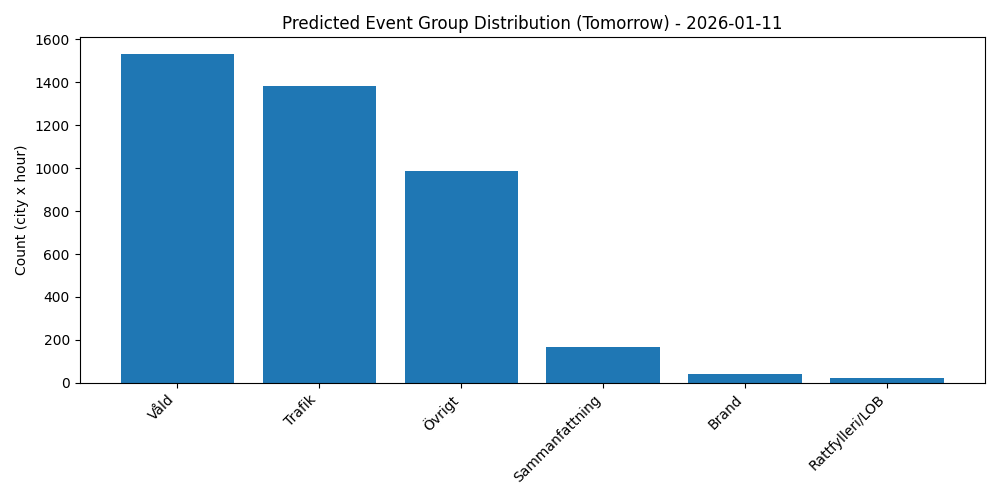
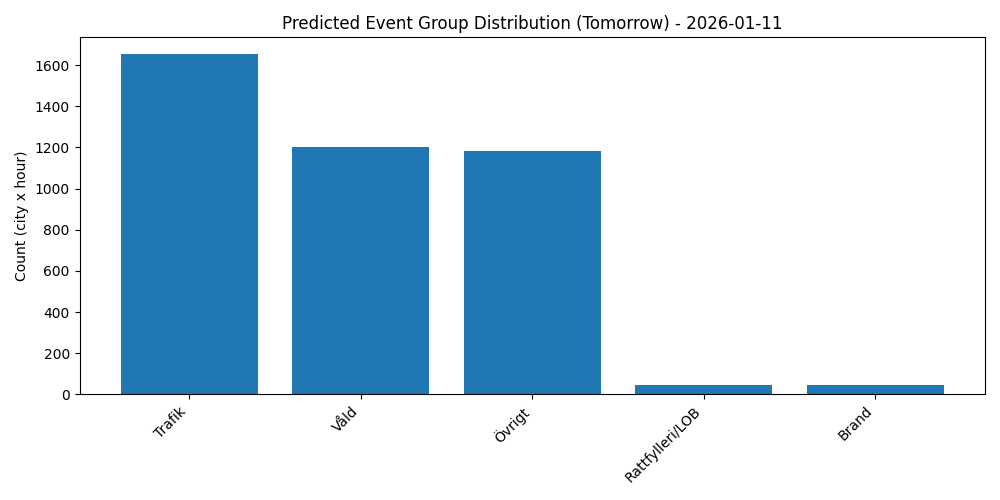
remove sammanfattning from label group

diff --git a/src/label_map.py b/src/label_map.py
@@ -32,10 +32,6 @@ def map_type_to_group(event_type: str) -> str:
     if not t:
         return "Övrigt"
 
-    # 1) Summaries (often very frequent)
-    if "sammanfattning" in t:
-        return "Sammanfattning"
-
     # 2) Traffic
     trafik_keywords = [
         "trafik", "körning", "rattfyll", "fordon", "hastighet",
@@ -58,7 +54,7 @@ def map_type_to_group(event_type: str) -> str:
     # 4) Violence
     vald_keywords = [
         "misshandel", "våld", "våldt", "mord", "dråp", "rån", "bråk",
-        "olaga hot", "hot", "hemfridsbrott", "vållande", "människorov"
+        "olaga hot", "hot", "hemfridsbrott", "vållande", "människorov",
     ]
     if any(k in t for k in vald_keywords):
         return "Våld"

diff --git a/src/1_daily_feature_pipeline.py b/src/1_daily_feature_pipeline.py
@@ -236,10 +236,9 @@ def to_hopsworks(df: pd.DataFrame):
 
     df = df[required_cols].copy()
 
-    # ✅ Create/Use Feature Group v2 (new schema, no conflict with v1)
     police_fg = fs.get_or_create_feature_group(
         name="police_events",
-        version=2,
+        version=3,
         primary_key=["id"],
         event_time="datetime",
         description="Police events with weather + grouped label (type_group)",

diff --git a/src/3_inference_pipeline.py b/src/3_inference_pipeline.py
@@ -32,7 +32,7 @@ if not API_KEY:
 CACHE_FILE = "src/city_coords.json"
 
 MODEL_NAME = "police_crime_model"
-MIN_VERSION = 41
+MIN_VERSION = 42
 
 EVENTS_FG_NAME = "police_events"
 EVENTS_FG_VERSION = 2  # must match your daily FG version

diff --git a/src/2_training_pipeline.py b/src/2_training_pipeline.py
@@ -34,7 +34,7 @@ if not API_KEY:
 
 
 FG_NAME = "police_events"
-FG_VERSION = 2  # <-- important (we added type_group)
+FG_VERSION = 3
 
 MODEL_NAME = "police_crime_model"
 

diff --git a/src/app.py b/src/app.py
@@ -7,7 +7,7 @@ import matplotlib.pyplot as plt
 
 
 FG_NAME = "police_events"
-FG_VERSION = 2
+FG_VERSION = 3
 
 PRED_FG_NAME = "police_predictions"
 PRED_FG_VERSION = 6
